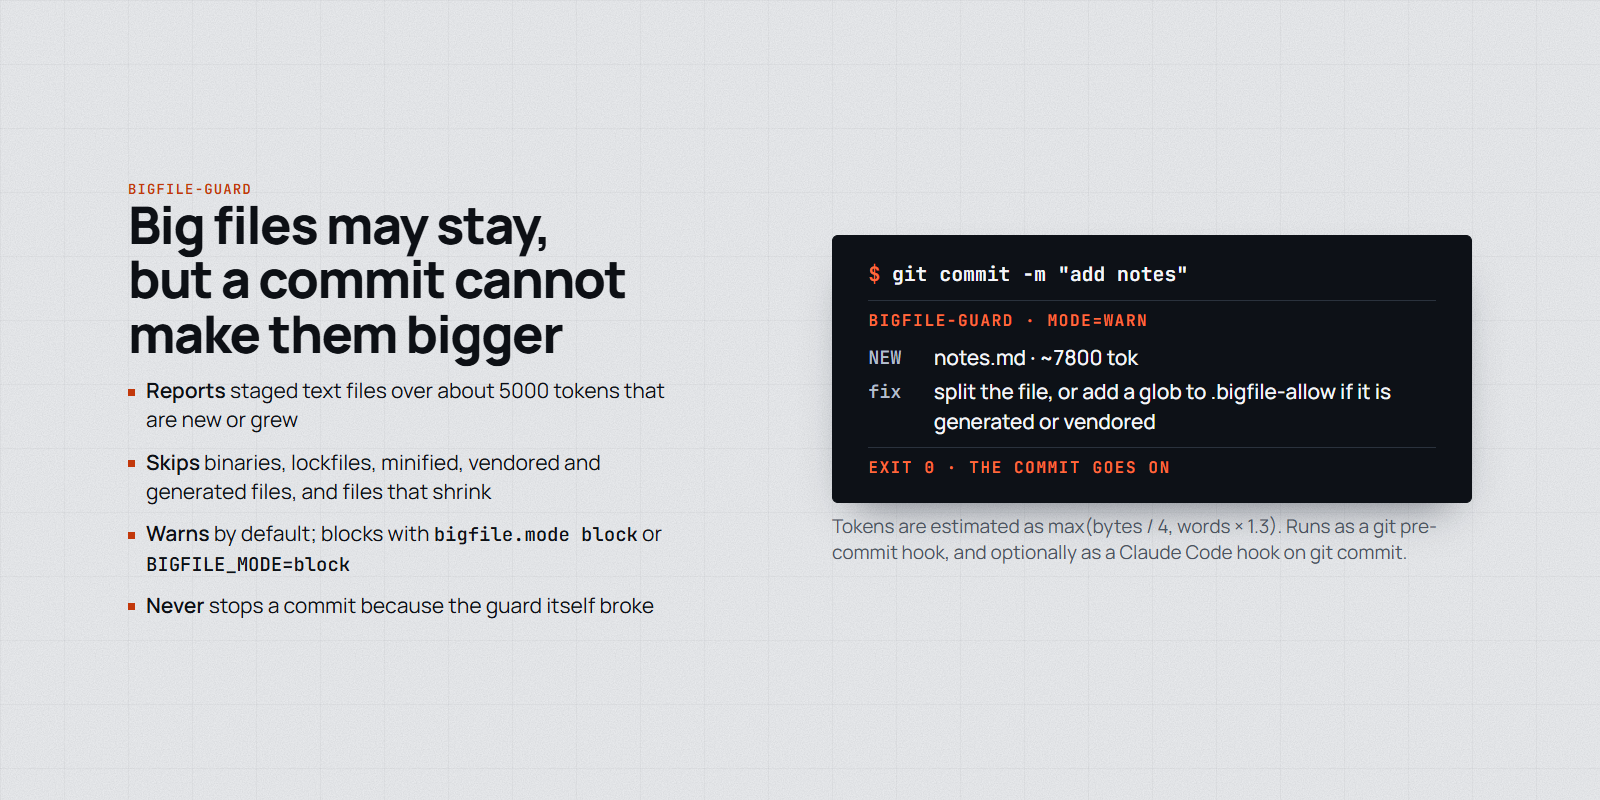
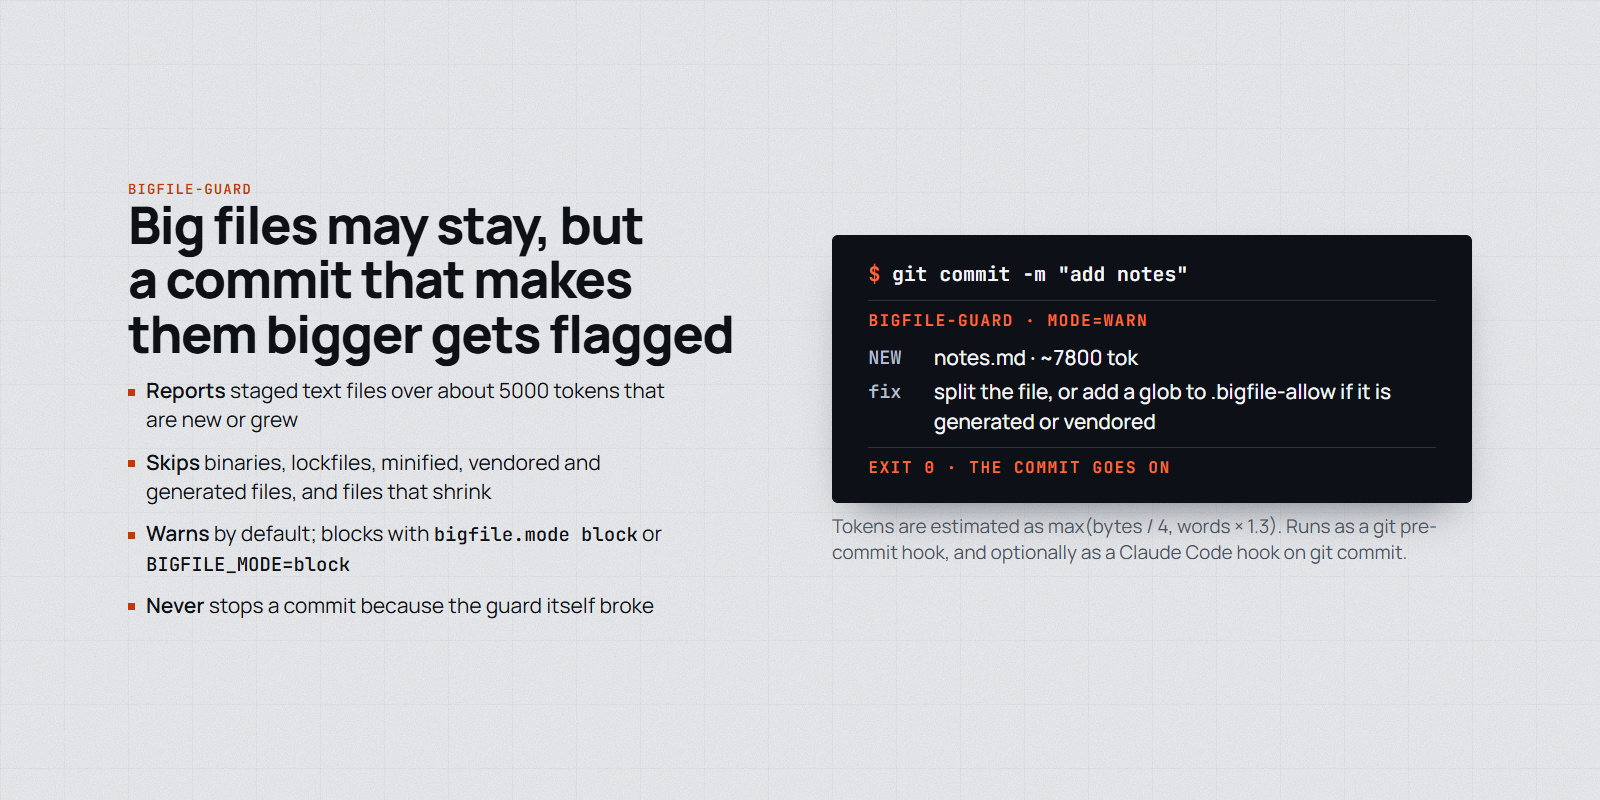
docs: narrow figure claims to what the skills do
bigfile-guard flags growth (warns by default), supply-chain-guard reviews
named package installs, worktree covers substantive tasks and branches off
the remote default branch. Review examples no longer use PR numbers.

Changed region(s): [[0.0625, 0.25, 0.4688, 0.4688]]

diff --git a/docs/figures/readme.src.html b/docs/figures/readme.src.html
@@ -293,7 +293,7 @@
       </div>
       <figure>
         <div class="chat">
-          <p class="chat__you"><b>review</b>PR #142 · High risk (order quantities)</p>
+          <p class="chat__you"><b>review</b>example PR · High risk (payments)</p>
           <dl class="chat__kv">
             <dt>writer</dt><dd>Claude</dd>
             <dt>reviewers</dt><dd>a fresh-context subagent, plus another vendor's model when one is installed</dd>
@@ -301,7 +301,7 @@
           </dl>
           <p class="chat__head">Findings · severity · confidence</p>
           <ol class="chat__q">
-            <li><b>P0 90</b>empty quantity: "21." blanks during a pause → fix round</li>
+            <li><b>P0 90</b>refund total rounds twice → fix round</li>
             <li><b>P1 60</b>test name should list the keys typed → PR body</li>
             <li><b>P2 35</b>helper name → PR body</li>
           </ol>
@@ -378,7 +378,7 @@
     <div class="split split--even split--review">
       <div>
         <p class="slide__label">bigfile-guard</p>
-        <h2 class="slide__heading">Big files may stay, but a commit cannot make them bigger</h2>
+        <h2 class="slide__heading">Big files may stay, but a commit that makes them bigger gets flagged</h2>
         <ul class="points">
           <li><b>Reports</b> staged text files over about 5000 tokens that are new or grew</li>
           <li><b>Skips</b> binaries, lockfiles, minified, vendored and generated files, and files that shrink</li>
@@ -415,7 +415,7 @@
       </div>
       <figure>
         <div class="chat">
-          <p class="chat__you"><b>explain-check</b>PR #57</p>
+          <p class="chat__you"><b>explain-check</b>example PR</p>
           <dl class="chat__kv">
             <dt>What</dt><dd>"renames parseConfig to loadConfig"</dd>
             <dt>Risk</dt><dd>"none"</dd>
@@ -495,7 +495,7 @@
     <div class="split split--even split--matrix">
       <div>
         <p class="slide__label">supply-chain-guard</p>
-        <h2 class="slide__heading">Fresh releases wait 7 days, and what an agent installs gets a diff review</h2>
+        <h2 class="slide__heading">Fresh releases wait 7 days, and a named package install gets a diff review</h2>
         <ol class="stepper">
           <li>Parse the command<small>chains, wrappers, sh -c; installs nothing: exits in about 30 ms</small></li>
           <li>Fetch both versions<small>installed vs what the command would install</small></li>
@@ -557,7 +557,7 @@
     <div class="split split--even split--matrix">
       <div>
         <p class="slide__label">worktree</p>
-        <h2 class="slide__heading">Each task gets its own worktree, so sessions stop overwriting each other</h2>
+        <h2 class="slide__heading">Each substantive task gets its own worktree, so sessions stop overwriting each other</h2>
         <ol class="stepper">
           <li>Create<small>git worktree add root/slug -b branch, off the default branch</small></li>
           <li>Work by path<small>absolute paths, cd "tree" &amp;&amp; cmd</small></li>

diff --git a/skills/worktree/SKILL.md b/skills/worktree/SKILL.md
@@ -6,7 +6,7 @@ description: Use before the first file edit of a substantive task (feature slice
 # Worktree isolation
 
 Shared checkout: in-place edits clobber other sessions' branch, stash, dev server. Before the first file edit of a substantive task (feature slice, bug fix, spec/plan work, anything ending in a commit):
-1. `git worktree add "<tree>" -b <branch>` off `origin/master` unless told otherwise, where `<tree>` = `<worktree-root>/<slug>` (`<worktree-root>`: host file).
+1. `git worktree add "<tree>" -b <branch>` off the remote default branch (`origin/HEAD`) unless told otherwise, where `<tree>` = `<worktree-root>/<slug>` (`<worktree-root>`: host file).
 2. Work in `<tree>` from the launch dir: Read, Edit, Write, Grep and Glob always get an absolute path inside `<tree>`; every shell command starts with `cd "<tree>" &&` (tests, package scripts and builds run from cwd, so this prefix is what keeps them off the shared checkout). If `<tree>` belongs to a different repo than the launch dir, read its `CLAUDE.md` first, since the session loaded only the launch dir's; its `.claude/settings` hooks don't run either, so if that repo depends on them, stop and ask for a session launched in `<tree>`. Why not `EnterWorktree`: entering any path outside the repo's `.claude/worktrees/` always asks for approval (no allow rule suppresses it), and an unattended session waits on that prompt for hours (once 42 h on a server). Its `name` form puts trees under `.claude/worktrees/` (broke a gitlink; vitest/eslint glob into copies).
 3. Commit and push from `<tree>`. `git worktree remove "<tree>"` once pushed and the PR is merged, closed or abandoned; keep it only while the PR is open or work is unfinished, and say so in the final answer.
 4. Don't rely on step 3 to clean up (dead sessions never finish it); pruning is per host (host file `~/.claude/home/hosts/<host>.md`).

diff --git a/skills/bigfile-guard/README.md b/skills/bigfile-guard/README.md
@@ -5,7 +5,7 @@
 <p align="center">
   <picture>
     <source media="(prefers-color-scheme: dark)" srcset="assets/bigfile-guard-dark.png">
-    <img alt="Big files may stay, but a commit cannot make them bigger. The guard reports staged text files over about 5000 tokens that are new or grew, skips binaries, lockfiles, minified, vendored, generated and shrinking files, warns by default and blocks only when configured, and never stops a commit because it broke. Example: git commit reports notes.md as NEW at about 7800 tokens, suggests splitting it or allowing it, and the commit goes on with exit 0." src="assets/bigfile-guard-light.png" width="880">
+    <img alt="Big files may stay, but a commit that makes them bigger gets flagged. The guard reports staged text files over about 5000 tokens that are new or grew, skips binaries, lockfiles, minified, vendored, generated and shrinking files, warns by default and blocks only when configured, and never stops a commit because it broke. Example: git commit reports notes.md as NEW at about 7800 tokens, suggests splitting it or allowing it, and the commit goes on with exit 0." src="assets/bigfile-guard-light.png" width="880">
   </picture>
 </p>
 

diff --git a/skills/supply-chain-guard/README.md b/skills/supply-chain-guard/README.md
@@ -5,7 +5,7 @@
 <p align="center">
   <picture>
     <source media="(prefers-color-scheme: dark)" srcset="assets/supply-chain-guard-dark.png">
-    <img alt="Fresh releases wait 7 days, and what an agent installs gets a diff review: parse the command, fetch the installed and requested versions, compute signals (diff scan, OSV, release age), a Claude review of only the diff, and a verdict that is the stricter of floor and review. Example: npm i example-lib@2.4.1 over 2.4.0, released 2 days ago, gets ask because it is younger than the cooldown." src="assets/supply-chain-guard-light.png" width="880">
+    <img alt="Fresh releases wait 7 days, and a named package install gets a diff review: parse the command, fetch the installed and requested versions, compute signals (diff scan, OSV, release age), a Claude review of only the diff, and a verdict that is the stricter of floor and review. Example: npm i example-lib@2.4.1 over 2.4.0, released 2 days ago, gets ask because it is younger than the cooldown." src="assets/supply-chain-guard-light.png" width="880">
   </picture>
 </p>
 

diff --git a/skills/worktree/README.md b/skills/worktree/README.md
@@ -5,7 +5,7 @@
 <p align="center">
   <picture>
     <source media="(prefers-color-scheme: dark)" srcset="assets/worktree-dark.png">
-    <img alt="Each task gets its own worktree, so sessions stop overwriting each other: create it off the default branch, work by absolute path, commit and push from the tree, remove it once the PR is merged, closed or abandoned. Example: fix the login redirect bug gets its own tree and branch, the shared checkout stays untouched." src="assets/worktree-light.png" width="880">
+    <img alt="Each substantive task gets its own worktree, so sessions stop overwriting each other: create it off the default branch, work by absolute path, commit and push from the tree, remove it once the PR is merged, closed or abandoned. Example: fix the login redirect bug gets its own tree and branch, the shared checkout stays untouched." src="assets/worktree-light.png" width="880">
   </picture>
 </p>
 
